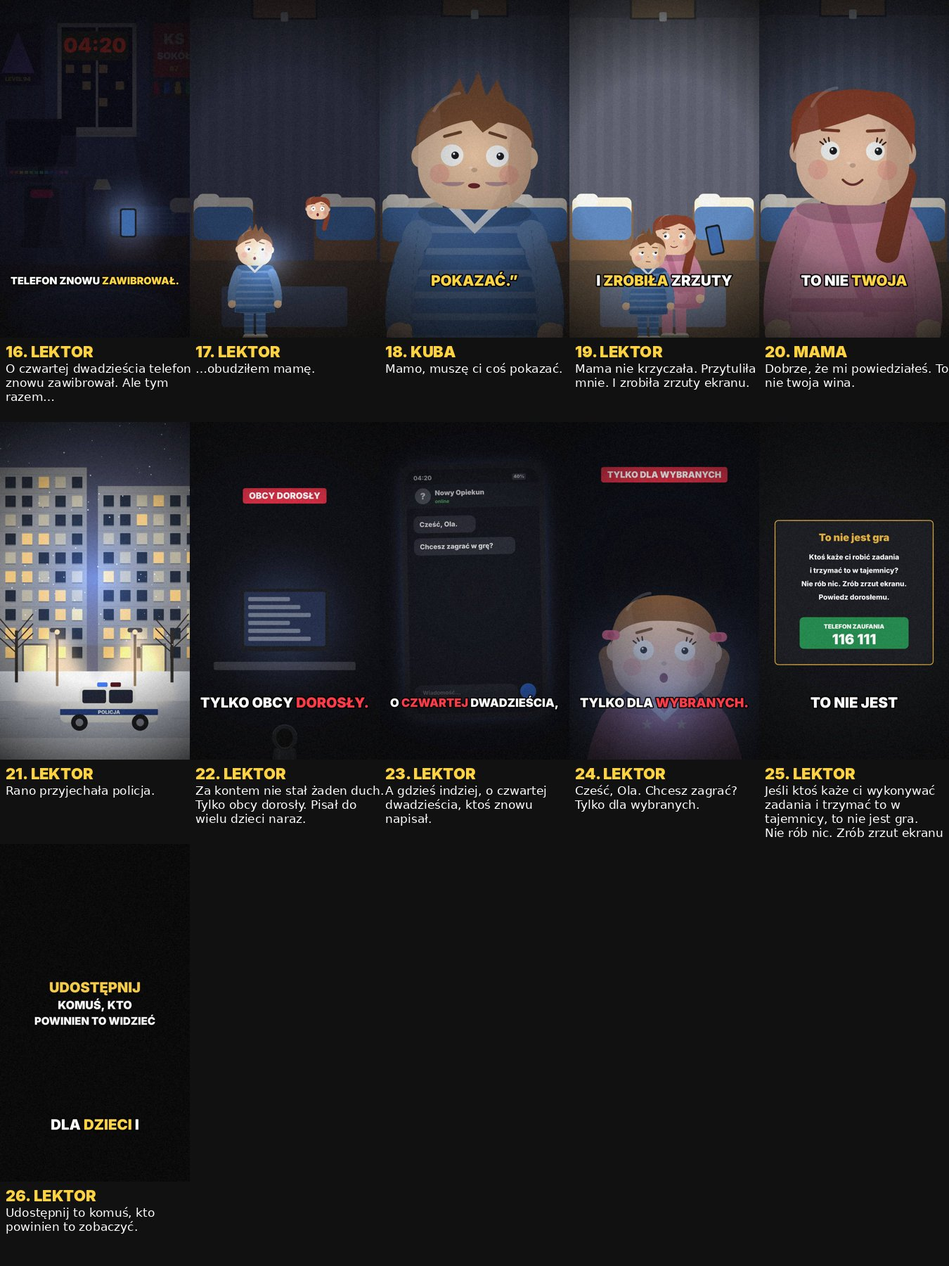
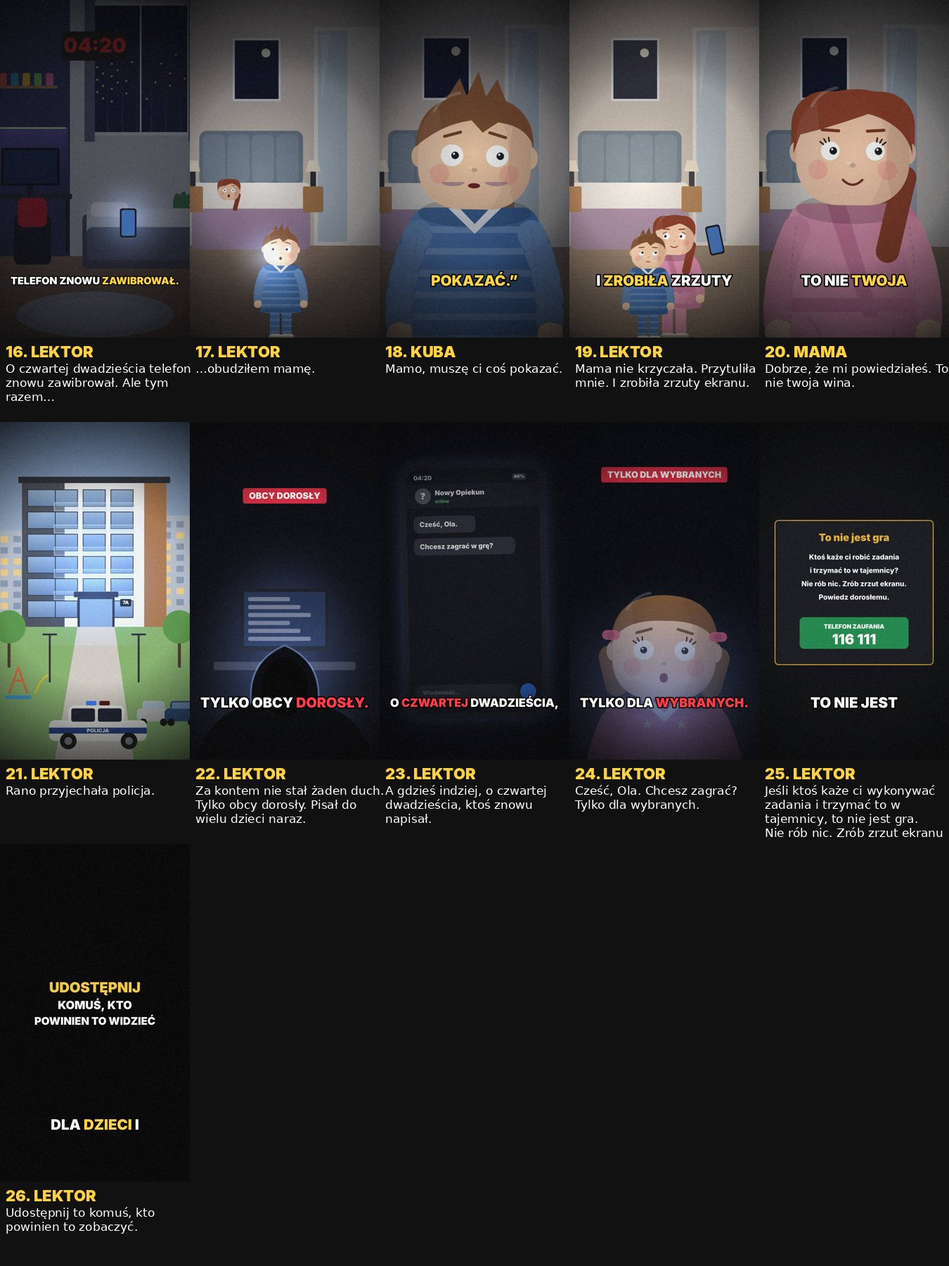
Gra: nowe osiedle i nowoczesne mieszkanie, poprawiony scenariusz obrazkowy
Claude-Session: https://claude.ai/code/session_01XA7BeL8A8WqQ6rWtpD99qW

Changed region(s): [[0.0, 0.0, 1.0, 0.28], [0.0, 0.3111, 0.3733, 0.6222], [0.1244, 0.0, 0.1556, 0.0311]]

diff --git a/film/leg21/scenes.js b/film/leg21/scenes.js
@@ -2106,6 +2106,59 @@ function telewizor(c, lt, o = {}) { pokojBartka(c, lt, { light: 0, candles: fals
 function fotoOsrodek(c, x, y, w, h, lt) { c.save(); c.translate(x, y); c.scale(w / 1080, h / 1920); c.translate(0, -300); osrodek(c, lt, { lit: 8 }); c.restore(); c.save(); c.translate(x, y); c.strokeStyle = '#FF2A35'; c.lineWidth = 5; const wx = (170 + 2 * 130 + 45) * w / 1080, wy = (980 + 170 + 55 - 300) * h / 1920; c.beginPath(); c.arc(wx, wy, 34 * w / 440, 0, 7); c.stroke(); c.fillStyle = 'rgba(255,255,255,.05)'; c.fillRect(0, 0, w, h); c.restore(); }
 // zdjęcie: dzieci śpią na piętrowych łóżkach, zrobione z wnętrza pokoju
 function fotoDorm(c, x, y, w, h, lt) { c.save(); c.translate(x, y); c.scale(w / 1080, h / 1920); pokojBartka(c, 0, { light: 0, candles: false, dark: .3 }); for (const [hx, hy, k] of [[160, 510, 'kuba'], [330, 790, 'sasiad'], [700, 1500, 'zosia']]) { c.save(); c.translate(hx, hy); c.scale(.32, .32); toonHead(c, { kind: k, expr: 'tired', t: 0 }, toonPal({ kind: k })); c.restore(); } const g = c.createRadialGradient(540, 900, 50, 540, 900, 900); g.addColorStop(0, 'rgba(255,255,255,.2)'); g.addColorStop(1, 'rgba(0,0,0,.6)'); c.fillStyle = g; c.fillRect(0, 0, 1080, 1920); c.restore(); }
+// ===================== GRA: nowe osiedle i mieszkanie =====================
+// nowy blok: biało-grafitowa elewacja, drewniane wstawki, szklane balkony, plac zabaw, parking; o.mark (indeks okna Kuby), o.day
+function nowyBlok(c, lt, o = {}) { const sky = c.createLinearGradient(0, 0, 0, 1100); sky.addColorStop(0, o.day ? '#6A8AB8' : '#0A1024'); sky.addColorStop(1, o.day ? '#C8D8E8' : '#2A3456'); c.fillStyle = sky; c.fillRect(0, 0, W, H); if (!o.day) for (let k = 0; k < 50; k++) circ(c, hash(k) * W, hash(k + 3) * 500, 1.5, 'rgba(255,255,255,.5)');
+  // dalsze bloki
+  for (const [bx, bw, bh, col] of [[-60, 300, 520, '#3A4260'], [820, 320, 600, '#343C58']]) { fillRR(c, bx, 1160 - bh, bw, bh, 0, o.day ? '#B8C0CC' : col); for (let r = 0; r < 8; r++) for (let q = 0; q < 4; q++) fillRR(c, bx + 24 + q * 70, 1160 - bh + 30 + r * 60, 40, 34, 2, hash(r * 9 + q + bx) > .55 ? '#F2D08A' : (o.day ? '#8A9AB0' : '#1A2036')); }
+  // główny budynek
+  const X = 150, Y = 380, BW = 780, BH = 780; fillRR(c, X, Y, BW, BH, 0, o.day ? '#F2F2F0' : '#D8DCE2'); fillRR(c, X, Y, 230, BH, 0, o.day ? '#4A4E56' : '#3A3E48'); fillRR(c, X + BW - 120, Y, 120, BH, 0, '#B07A4A'); c.fillStyle = 'rgba(0,0,0,.06)'; for (let k = 0; k < 30; k++) c.fillRect(X + BW - 120 + k * 4, Y, 1, BH);
+  fillRR(c, X - 20, Y - 30, BW + 40, 34, 4, '#2A2E36');
+  let n = 0; for (let r = 0; r < 6; r++) for (let q = 0; q < 4; q++) { const wx = X + 30 + q * 150, wy = Y + 40 + r * 120; const lit = o.mark === n || (!o.day && hash(n * 3 + 7) > .5); const g = c.createLinearGradient(wx, wy, wx, wy + 90); g.addColorStop(0, lit ? '#FFE2A0' : (o.day ? '#9AB8D8' : '#1A2238')); g.addColorStop(1, lit ? '#F2B860' : (o.day ? '#6A88B0' : '#121A2C')); fillRR(c, wx, wy, q === 0 ? 150 : 120, 90, 2, g); c.strokeStyle = '#2A2E36'; c.lineWidth = 4; c.strokeRect(wx, wy, q === 0 ? 150 : 120, 90); if (q > 0 && r < 5) { c.fillStyle = 'rgba(180,210,230,.35)'; c.fillRect(wx - 6, wy + 70, 132, 44); c.strokeStyle = 'rgba(220,235,245,.8)'; c.lineWidth = 3; c.strokeRect(wx - 6, wy + 70, 132, 44); } if (lit && o.mark === n) { c.save(); c.globalCompositeOperation = 'lighter'; c.filter = 'blur(18px)'; c.fillStyle = 'rgba(255,210,130,.5)'; c.fillRect(wx - 20, wy - 20, 160, 130); c.restore(); } n++; }
+  // wejście
+  fillRR(c, X + 300, Y + BH - 160, 200, 160, 4, '#2A2E36'); fillRR(c, X + 312, Y + BH - 150, 176, 150, 2, o.day ? '#8AA8C8' : '#F2D8A0'); fillRR(c, X + 280, Y + BH - 190, 240, 30, 4, '#2A2E36'); fillRR(c, X + 530, Y + BH - 150, 60, 40, 6, '#1E1E22'); txt(c, '7A', X + 560, Y + BH - 130, 26, '#FFFFFF', 900);
+  // teren: trawa, chodnik, drzewka, plac zabaw, parking
+  c.fillStyle = o.day ? '#8AB870' : '#22342A'; c.fillRect(0, 1160, W, 760); c.fillStyle = o.day ? '#D8D4CC' : '#4A4C52'; c.beginPath(); c.moveTo(X + 300, 1160); c.lineTo(X + 500, 1160); c.lineTo(760, H); c.lineTo(320, H); c.fill();
+  for (const tx of [80, 1000]) { fillRR(c, tx - 8, 1180, 16, 200, 4, '#4A3A2A'); c.fillStyle = o.day ? '#5A9A4A' : '#1A3A26'; c.beginPath(); c.arc(tx, 1160, 90, 0, 7); c.fill(); }
+  c.strokeStyle = '#E86A3A'; c.lineWidth = 10; c.beginPath(); c.moveTo(80, 1520); c.lineTo(130, 1380); c.lineTo(180, 1520); c.moveTo(105, 1450); c.lineTo(155, 1450); c.stroke(); fillRR(c, 60, 1530, 140, 20, 6, '#3AA0D8'); c.strokeStyle = '#F2C21A'; c.lineWidth = 8; c.beginPath(); c.moveTo(220, 1520); c.quadraticCurveTo(260, 1420, 300, 1420); c.stroke();
+  for (const [cx, col] of [[860, '#C8C8CC'], [1010, '#2A4A7A']]) { fillRR(c, cx - 90, 1600, 180, 70, 24, col); fillRR(c, cx - 60, 1560, 120, 50, 18, col); c.fillStyle = 'rgba(160,200,230,.6)'; c.fillRect(cx - 50, 1568, 100, 34); circ(c, cx - 55, 1675, 20, '#111'); circ(c, cx + 55, 1675, 20, '#111'); }
+  for (const lx of [300, 780]) { fillRR(c, lx - 5, 1200, 10, 260, 3, '#2A2A30'); fillRR(c, lx - 40, 1196, 80, 10, 4, '#2A2A30'); if (!o.day) { c.save(); c.globalCompositeOperation = 'lighter'; const lg = c.createRadialGradient(lx, 1210, 4, lx, 1400, 260); lg.addColorStop(0, 'rgba(255,240,200,.4)'); lg.addColorStop(1, 'rgba(0,0,0,0)'); c.fillStyle = lg; c.fillRect(lx - 260, 1200, 520, 400); c.restore(); } }
+  if (!o.day) NIGHT(c, o.dark ?? .3, 540, 900, 760); }
+// zdjęcie nowego bloku z zaznaczonym oknem
+function fotoNowyBlok(c, x, y, w, h, lt) { c.save(); c.translate(x, y); c.scale(w / 1080, h / 1920); c.translate(0, -150); nowyBlok(c, lt, { mark: 9, dark: .45 }); c.restore(); c.save(); c.translate(x, y); const wx = (150 + 30 + 1 * 150 + 60) * w / 1080, wy = (380 + 40 + 2 * 120 + 45 - 150) * h / 1920; c.strokeStyle = '#FF2A35'; c.lineWidth = 5; c.beginPath(); c.arc(wx, wy, 26 * w / 440 + 10, 0, 7); c.stroke(); c.restore(); }
+// nowoczesny pokój Kuby: szare ściany + granatowa ściana, LED, biurko z monitorem, fotel, łóżko, okno na miasto
+function pokojNowy(c, lt, o = {}) { c.fillStyle = '#C8CCD2'; c.fillRect(0, 0, W, 1380); fillRR(c, 0, 0, 420, 1380, 0, '#2A3456'); c.fillStyle = '#8A7058'; c.fillRect(0, 1380, W, 540); for (let k = 0; k < 9; k++) { c.fillStyle = 'rgba(0,0,0,.08)'; c.fillRect(0, 1380 + k * 60, W, 3); }
+  // okno z widokiem na miasto
+  fillRR(c, 520, 160, 480, 640, 6, '#E8ECF0'); c.save(); c.beginPath(); c.rect(536, 176, 448, 608); c.clip(); const sk = c.createLinearGradient(0, 176, 0, 784); sk.addColorStop(0, '#0A1024'); sk.addColorStop(1, '#2A3456'); c.fillStyle = sk; c.fillRect(536, 176, 448, 608); for (let k = 0; k < 7; k++) { const bx = 536 + k * 70, bh = 180 + hash(k + 2) * 260; fillRR(c, bx, 784 - bh, 60, bh, 0, '#1A2036'); for (let r = 0; r < 8; r++) circ(c, bx + 15 + (r % 2) * 28, 800 - bh + r * 30, 5, hash(k * 7 + r) > .5 ? '#F2D08A' : '#2A3050'); } c.restore(); fillRR(c, 756, 176, 8, 608, 2, '#E8ECF0'); for (const sx of [0, 1]) { c.fillStyle = '#5A6478'; c.fillRect(490 + sx * 500, 130, 50, 700); }
+  // LED nad biurkiem
+  const led = `hsl(${(lt * 30) % 360}, 80%, 60%)`; fillRR(c, 40, 760, 360, 8, 4, led); c.save(); c.globalCompositeOperation = 'lighter'; const lg = c.createLinearGradient(0, 760, 0, 1100); lg.addColorStop(0, 'rgba(160,90,255,.35)'); lg.addColorStop(1, 'rgba(0,0,0,0)'); c.fillStyle = lg; c.fillRect(30, 760, 380, 340); c.restore();
+  // biurko, monitor, fotel
+  fillRR(c, 30, 1080, 400, 26, 6, '#2A2A30'); for (const lx of [50, 400]) fillRR(c, lx, 1100, 14, 260, 4, '#1A1A1E'); fillRR(c, 90, 860, 280, 180, 10, '#0E0E12'); fillRR(c, 100, 870, 260, 160, 6, o.screen || '#1A2A4A'); fillRR(c, 215, 1040, 30, 40, 4, '#1A1A1E'); fillRR(c, 150, 1180, 180, 240, 30, '#1A1A1E'); fillRR(c, 170, 1100, 140, 140, 30, '#C81E28');
+  // półka z figurkami, roślina
+  fillRR(c, 60, 560, 300, 14, 4, '#B07A4A'); for (let k = 0; k < 5; k++) fillRR(c, 80 + k * 56, 500, 36, 60, 8, ['#E86A3A', '#3AA0D8', '#F2C21A', '#7AC85A', '#E06A9A'][k]);
+  fillRR(c, 930, 1240, 90, 120, 14, '#E8E4DC'); c.fillStyle = '#3A7A4A'; for (let k = 0; k < 7; k++) { c.beginPath(); c.ellipse(975 + Math.cos(k) * 40, 1180 - k * 14, 20, 60, k * .4 - 1.2, 0, 7); c.fill(); }
+  // łóżko
+  fillRR(c, 480, 1180, 560, 260, 20, '#4A4E58'); fillRR(c, 500, 1150, 520, 160, 30, '#D8DCE2'); fillRR(c, 520, 1120, 180, 70, 26, '#FFFFFF'); fillRR(c, 500, 1240, 520, 160, 30, '#5A6478');
+  // dywan okrągły
+  ell(c, 540, 1660, 380, 110, '#A8B0BC'); ell(c, 540, 1660, 300, 80, '#B8C0CC');
+  NIGHT(c, o.dark ?? .2, o.lx ?? 700, o.ly ?? 900, 800); }
+// otwarta kuchnia z wyspą
+function kuchniaNowa(c, lt, o = {}) { c.fillStyle = '#ECEAE6'; c.fillRect(0, 0, W, 1380); c.fillStyle = '#B8A890'; c.fillRect(0, 1380, W, 540); for (let k = 0; k < 8; k++) { c.fillStyle = 'rgba(0,0,0,.06)'; c.fillRect(k * 140, 1380, 3, 540); }
+  fillRR(c, 0, 300, 600, 300, 0, '#FFFFFF'); for (let k = 0; k < 4; k++) { c.strokeStyle = 'rgba(0,0,0,.08)'; c.lineWidth = 3; c.strokeRect(k * 150, 300, 150, 300); fillRR(c, k * 150 + 60, 560, 30, 8, 3, '#2A2A30'); } fillRR(c, 0, 820, 600, 400, 0, '#FFFFFF'); fillRR(c, 0, 800, 620, 26, 4, '#3A3A40'); for (let k = 0; k < 4; k++) { c.strokeStyle = 'rgba(0,0,0,.08)'; c.strokeRect(k * 150, 830, 150, 380); } c.fillStyle = '#D8D4CC'; c.fillRect(0, 600, 600, 200); for (let x = 0; x < 600; x += 60) for (let y = 600; y < 800; y += 30) { c.strokeStyle = 'rgba(0,0,0,.05)'; c.strokeRect(x + ((y / 30) % 2) * 30, y, 60, 30); }
+  fillRR(c, 640, 260, 360, 520, 6, '#E8ECF0'); const sk = c.createLinearGradient(0, 276, 0, 760); sk.addColorStop(0, o.night ? '#0A1024' : '#9AC0E8'); sk.addColorStop(1, o.night ? '#2A3456' : '#DCE8F4'); c.fillStyle = sk; c.fillRect(656, 276, 328, 488); fillRR(c, 816, 276, 8, 488, 2, '#E8ECF0');
+  fillRR(c, 860, 820, 200, 560, 10, '#D8DCE0'); fillRR(c, 860, 1080, 200, 6, 2, '#B8BCC0'); fillRR(c, 1030, 900, 10, 120, 4, '#8A8E94');
+  fillRR(c, 200, 1220, 640, 220, 12, '#B07A4A'); fillRR(c, 180, 1200, 680, 30, 8, '#F2F0EC'); for (const sx of [300, 540, 760]) { fillRR(c, sx - 40, 1440, 80, 24, 8, '#2A2A30'); fillRR(c, sx - 6, 1460, 12, 160, 3, '#2A2A30'); }
+  for (const lx of [340, 540, 740]) { c.strokeStyle = '#2A2A30'; c.lineWidth = 3; c.beginPath(); c.moveTo(lx, 0); c.lineTo(lx, 900); c.stroke(); c.fillStyle = '#2A2A30'; c.beginPath(); c.moveTo(lx - 50, 960); c.lineTo(lx + 50, 960); c.lineTo(lx + 30, 900); c.lineTo(lx - 30, 900); c.fill(); c.save(); c.globalCompositeOperation = 'lighter'; const g = c.createRadialGradient(lx, 970, 4, lx, 1150, 260); g.addColorStop(0, 'rgba(255,220,160,.35)'); g.addColorStop(1, 'rgba(0,0,0,0)'); c.fillStyle = g; c.fillRect(lx - 260, 960, 520, 400); c.restore(); }
+  fillRR(c, 420, 1150, 120, 60, 10, '#3A7A4A'); circ(c, 640, 1170, 30, '#E8A020'); circ(c, 690, 1180, 26, '#C81E28');
+  if (o.night) { c.fillStyle = 'rgba(0,0,20,.3)'; c.fillRect(0, 0, W, H); } }
+// sypialnia mamy: łóżko z tapicerowanym zagłówkiem, lampki, szafa z lustrem; o.mamaInBed
+function sypialniaNowa(c, lt, o = {}) { c.fillStyle = '#D8D0C8'; c.fillRect(0, 0, W, 1380); fillRR(c, 0, 0, W, 1380, 0, 'rgba(140,110,90,.15)'); c.fillStyle = '#9A8068'; c.fillRect(0, 1380, W, 540); for (let k = 0; k < 9; k++) { c.fillStyle = 'rgba(0,0,0,.08)'; c.fillRect(0, 1380 + k * 60, W, 3); }
+  fillRR(c, 700, 200, 360, 1180, 6, '#E8E2DA'); fillRR(c, 720, 220, 160, 1140, 4, '#B8C8D4'); c.fillStyle = 'rgba(255,255,255,.3)'; c.beginPath(); c.moveTo(740, 240); c.lineTo(790, 240); c.lineTo(740, 600); c.fill();
+  fillRR(c, 80, 760, 560, 300, 40, '#6A7A8A'); for (let k = 0; k < 4; k++) fillRR(c, 100 + k * 132, 780, 120, 260, 30, '#7A8A9A'); fillRR(c, 40, 1040, 640, 360, 30, '#F2EEE8'); fillRR(c, 40, 1180, 640, 220, 30, '#A88AA8');
+  if (o.mamaInBed) { c.save(); c.translate(240, 1080); c.scale(.38, .38); toonHead(c, { kind: 'mama', expr: o.mamaExpr || 'tired', t: lt }, toonPal({ kind: 'mama' })); c.restore(); }
+  for (const nx of [-10, 640]) { fillRR(c, nx, 1060, 110, 140, 8, '#B07A4A'); fillRR(c, nx + 40, 980, 30, 80, 4, '#2A2A30'); c.fillStyle = '#F2E8D0'; c.beginPath(); c.moveTo(nx + 15, 980); c.lineTo(nx + 95, 980); c.lineTo(nx + 80, 920); c.lineTo(nx + 30, 920); c.fill(); }
+  fillRR(c, 260, 260, 260, 340, 4, '#E8ECF0'); c.fillStyle = '#0A1024'; c.fillRect(272, 272, 236, 316); circ(c, 440, 340, 24, '#EDE8D0');
+  NIGHT(c, o.dark ?? .4, 400, 1000, 760); }
 // ===================== GRA: sceny =====================
 const TSK = {'hak':{start:0,end:4.4},'nowy':{start:4.4,end:8.0},'zaproszenie':{start:8.0,end:11.8},'zasady':{start:11.8,end:16.4},'z1':{start:16.4,end:19.8},'z2':{start:19.8,end:23.4},'z3':{start:23.4,end:27.2},'z4':{start:27.2,end:30.6},'zmeczony':{start:30.6,end:34.2},'mama':{start:34.2,end:37.2},'nic':{start:37.2,end:39.6},'dziala':{start:39.6,end:43.8},'dosc':{start:43.8,end:46.8},'grozba':{start:46.8,end:50.8},'strach':{start:50.8,end:54.0},'t420':{start:54.0,end:57.6},'budzi':{start:57.6,end:60.8},'pokaz':{start:60.8,end:63.8},'przytula':{start:63.8,end:67.8},'mama2':{start:67.8,end:71.6},'policja':{start:71.6,end:75.0},'prawda':{start:75.0,end:79.6},'ola':{start:79.6,end:83.4},'ola2':{start:83.4,end:86.6},'epilog':{start:86.6,end:93.2},'end':{start:93.2,end:98.2}};
 let _lt = 0; const SC = (name, o) => { const d = o.draw; if (d) o.draw = (c, lt) => { _lt = lt; d(c, lt); }; return scene(Object.assign({ name }, TSK[name], o)); };
@@ -2113,7 +2166,7 @@ let _lt = 0; const SC = (name, o) => { const d = o.draw; if (d) o.draw = (c, lt)
 const KUBA = { kind: 'kuba', home: true }, KUBAS = { kind: 'kuba', home: false }, MAMA = { kind: 'mama' };
 const OP = { name: 'Opiekun', unknown: true, sub: 'online' };
 const glowAt = (c, x, y, r, col = '150,190,255', a = .5) => { c.save(); c.globalCompositeOperation = 'lighter'; const g = c.createRadialGradient(x, y, 4, x, y, r); g.addColorStop(0, `rgba(${col},${a})`); g.addColorStop(1, 'rgba(0,0,0,0)'); c.fillStyle = g; c.fillRect(x - r, y - r, 2 * r, 2 * r); c.restore(); };
-const ROOMD = (dark = .8) => (c, lt) => { kubaRoom2(c, lt, {}); c.fillStyle = `rgba(0,0,10,${dark})`; c.fillRect(0, 0, W, H); };
+const ROOMD = (dark = .8) => (c, lt) => { pokojNowy(c, lt, { dark: .15 }); c.fillStyle = `rgba(0,0,10,${dark})`; c.fillRect(0, 0, W, H); };
 const clock420 = (c, lt) => { fillRR(c, 380, 300, 320, 140, 20, '#0A0A0C'); txt(c, '04:20', 540, 372, 96, Math.sin(lt * 4) > -.6 ? '#FF3B30' : '#5A1010', 900); };
 function listaZnajomych(c, lt, p) { c.fillStyle = '#05060A'; c.fillRect(0, 0, W, H); c.save(); c.translate(540, 960); fillRR(c, -360, -640, 720, 1280, 80, '#1A1C22'); fillRR(c, -334, -614, 668, 1228, 60, '#0F1117'); txt(c, 'Znajomi', -250, -520, 40, '#FFFFFF', 900, 'left'); const names = ['Bartek', 'Zosia', 'Kacper', 'Ola', 'Michał', 'Lena', 'Babcia', 'Tata']; names.forEach((nm, i) => { const y = -420 + i * 120; const gone = i < Math.floor(p * names.length); c.save(); c.globalAlpha = gone ? .25 : 1; circ(c, -250, y, 40, ['#E06A9A', '#3A8A4A', '#2A6AB0', '#E8A020'][i % 4]); txt(c, nm[0], -250, y + 2, 36, '#FFF', 900); txt(c, nm, -180, y, 36, '#FFFFFF', 800, 'left'); fillRR(c, 150, y - 30, 140, 60, 20, gone ? '#3A3E48' : '#FF3B30'); txt(c, gone ? 'usunięto' : 'usuń', 220, y, 26, '#FFFFFF', 900); if (gone) { c.strokeStyle = '#FF3B30'; c.lineWidth = 6; c.beginPath(); c.moveTo(-190, y); c.lineTo(120, y); c.stroke(); } c.restore(); }); c.restore(); NIGHT(c, .4, 540, 960, 760); }
 function kubaZmeczony(c, lt, o = {}) { toonClose(c, lt, 'kuba', o.expr || 'tired', Object.assign({}, o.s ? KUBAS : KUBA, { talk: o.talk, look: o.look ?? 0, bg: o.bg || '#1A1E2A', scene: o.scene, n: o.n ?? .5 })); if (o.bags !== false) { for (const sx of [-1, 1]) { c.save(); c.globalAlpha = .45; c.fillStyle = '#5A3A6A'; c.beginPath(); c.ellipse(540 + sx * 115, 1035, 60, 22, 0, 0, Math.PI); c.fill(); c.restore(); } } }
@@ -2122,24 +2175,24 @@ SC('hak', { cam: (lt) => ({ z: 1.04 + lt * .03 }), draw(c, lt) { czat(c, lt, [{ 
 SC('nowy', { cam: P(1.06, 3.6), draw(c, lt) { classroom(c, lt, {}); c.fillStyle = 'rgba(0,0,20,.25)'; c.fillRect(0, 0, W, H); }, post(c, lt) { band(c, lt, 'NOWY W SZKOLE', .4, 420, '#2A6AB0'); } });
 SC('zaproszenie', { cam: (lt) => ({ z: 1.04 + lt * .03 }), draw(c, lt) { czat(c, lt, [{ w: 'm', t: 'Hej, Kuba.', at: .3 }, { w: 'm', t: 'Chcesz zagrać w grę?', at: 1.0 }, { w: 'm', t: 'Tylko dla wybranych.', at: 2.0 }], Object.assign({ time: '22:14', battery: 64 }, OP)); } });
 SC('zasady', { cam: (lt) => ({ z: 1.06 + lt * .03 }), draw(c, lt) { czat(c, lt, [{ w: 'm', t: 'Zasada 1:', at: -1 }, { w: 'm', t: 'zadania codziennie o 4:20', at: .3 }, { w: 'm', t: 'Zasada 2: wyślij dowód', at: 1.3 }, { w: 'm', t: 'Zasada 3: NIKOMU ANI SŁOWA', at: 2.6 }], Object.assign({ time: '22:16', battery: 63 }, OP)); }, post(c, lt) { if (lt > 2.8) target(c, lt, 540, 300, 500, 100, 'TAJEMNICA', 2.8); } });
-SC('z1', { cam: (lt) => ({ z: 1.04 + lt * .04 }), draw(c, lt) { ROOMD(.82)(c, lt); toon(c, 560, 1900, .7, Object.assign({ expr: 'tired', t: lt, look: 1 }, KUBA)); glowAt(c, 700, 1450, 300); clock420(c, lt); }, post(c, lt) { band(c, lt, 'ZADANIE 1: WSTAŃ', .4, 520, '#D7263D'); } });
+SC('z1', { cam: (lt) => ({ z: 1.04 + lt * .04 }), draw(c, lt) { ROOMD(.55)(c, lt); toon(c, 560, 1900, .7, Object.assign({ expr: 'tired', t: lt, look: 1 }, KUBA)); glowAt(c, 700, 1450, 300); clock420(c, lt); }, post(c, lt) { band(c, lt, 'ZADANIE 1: WSTAŃ', .4, 520, '#D7263D'); } });
 SC('z2', { cam: (lt) => ({ z: 1.08 + lt * .04 }), draw(c, lt) { c.fillStyle = '#05060A'; c.fillRect(0, 0, W, H); kubaZmeczony(c, lt, { expr: 'fear', bg: '#05060A', scene: (cc) => { cc.fillStyle = '#05060A'; cc.fillRect(0, 0, W, H); }, n: .75 }); glowAt(c, 540, 1500, 700, '140,170,255', .45); fillRR(c, 380, 1480, 320, 200, 20, '#14161B'); fillRR(c, 392, 1492, 296, 176, 12, Math.sin(lt * 20) > 0 ? '#1A1E2A' : '#2A1418'); }, post(c, lt) { band(c, lt, 'ZADANIE 2: STRASZNY FILM', .3, 300, '#D7263D'); } });
-SC('z3', { cam: P(1.06, 3.8), draw(c, lt) { kuchnia(c, lt, { night: false }); toon(c, 330, 1880, .62, Object.assign({ expr: 'smile', t: lt, look: 1, talk: true }, MAMA)); toon(c, 720, 1880, .55, Object.assign({ expr: 'tired', t: lt, look: 0 }, KUBA)); }, post(c, lt) { band(c, lt, 'ZADANIE 3: NIE ODZYWAJ SIĘ DO MAMY', .3, 300, '#D7263D'); } });
+SC('z3', { cam: P(1.06, 3.8), draw(c, lt) { kuchniaNowa(c, lt, { night: false }); toon(c, 330, 1880, .62, Object.assign({ expr: 'smile', t: lt, look: 1, talk: true }, MAMA)); toon(c, 720, 1880, .55, Object.assign({ expr: 'tired', t: lt, look: 0 }, KUBA)); }, post(c, lt) { band(c, lt, 'ZADANIE 3: NIE ODZYWAJ SIĘ DO MAMY', .3, 300, '#D7263D'); } });
 SC('z4', { cam: (lt) => ({ z: 1.04 + lt * .03 }), draw(c, lt) { listaZnajomych(c, lt, clamp((lt - .4) / 2.6)); }, post(c, lt) { band(c, lt, 'ZADANIE 4: USUŃ ZNAJOMYCH', .3, 220, '#D7263D'); } });
 SC('zmeczony', { cam: P(1.06, 3.6), draw(c, lt) { kubaZmeczony(c, lt, { s: true, bg: '#C8C0A8', scene: (cc, l) => classroom(cc, l, {}), n: .2 }); } });
-SC('mama', { cam: P(1.08, 3), draw(c, lt) { toonClose(c, lt, 'mama', 'fear', { kind: 'mama', talk: true, look: 1, bg: '#C8B88A', scene: (cc, l) => kuchnia(cc, l, { night: true }), n: .25 }); } });
-SC('nic', { cam: (lt) => ({ z: 1.1 + lt * .04 }), draw(c, lt) { kubaZmeczony(c, lt, { talk: true, look: -1, bg: '#C8B88A', scene: (cc, l) => kuchnia(cc, l, { night: true }), n: .3 }); } });
+SC('mama', { cam: P(1.08, 3), draw(c, lt) { toonClose(c, lt, 'mama', 'fear', { kind: 'mama', talk: true, look: 1, bg: '#C8B88A', scene: (cc, l) => kuchniaNowa(cc, l, { night: true }), n: .25 }); } });
+SC('nic', { cam: (lt) => ({ z: 1.1 + lt * .04 }), draw(c, lt) { kubaZmeczony(c, lt, { talk: true, look: -1, bg: '#C8B88A', scene: (cc, l) => kuchniaNowa(cc, l, { night: true }), n: .3 }); } });
 SC('dziala', { cam: (lt) => ({ z: 1.04 + lt * .04 }), draw(c, lt) { c.fillStyle = '#08090E'; c.fillRect(0, 0, W, H); const k = clamp(lt / 3.4); [[200, 'sasiad', '#C83A2A'], [380, 'zosia', '#E06A9A'], [700, 'mama', null], [880, 'sasiad', '#3A8A4A']].forEach(([x, kd, cl], i) => { c.save(); c.globalAlpha = clamp(1 - k * 1.3 + i * .05); toon(c, x, 1800, .45, { kind: kd, expr: 'neutral', t: lt, look: 0, cloth: cl || undefined }); c.restore(); }); toon(c, 540, 1820, .6, Object.assign({ expr: 'tired', t: lt, look: 0 }, KUBAS)); glowAt(c, 540, 1400, 400, '120,140,200', .25); NIGHT(c, .5, 540, 1500, 500); } });
 SC('dosc', { cam: (lt) => ({ z: 1.06 + lt * .03 }), draw(c, lt) { czat(c, lt, [{ w: 'm', t: 'Zadanie 9.', at: -1 }, { w: 'k', t: 'Nie chcę już grać.', at: 1.6 }], Object.assign({ time: '04:21', battery: 9, draft: lt < 1.6 ? 'Nie chcę już grać.'.slice(0, Math.floor(lt * 12)) : null }, OP)); } });
-SC('grozba', { cam: (lt) => ({ z: 1.06 + lt * .04 }), draw(c, lt) { czat(c, lt, [{ w: 'k', t: 'Nie chcę już grać.', at: -1 }, { w: 'm', t: 'Z gry się nie wychodzi.', at: .3 }, { w: 'm', t: 'Wiem, gdzie mieszkasz.', at: 1.3 }, { w: 'm', p: fotoBlok, at: 2.3 }], Object.assign({ time: '04:22', battery: 8 }, OP)); }, post(c, lt) { joltFlash(c, lt, [2.3]); } });
-SC('strach', { cam: (lt) => ({ z: 1.04 + lt * .04 }), draw(c, lt) { ROOMD(.85)(c, lt); toon(c, 540, 1900, .75, Object.assign({ expr: 'fear', t: lt, look: 0, tears: true }, KUBA)); glowAt(c, 600, 1400, 300); } });
-SC('t420', { cam: (lt) => ({ z: 1.04 + lt * .05 }), draw(c, lt) { ROOMD(.85)(c, lt); clock420(c, lt); glowAt(c, 700, 1200, 260); fillRR(c, 660, 1150, 80, 140, 12, '#14161B'); fillRR(c, 668, 1158, 64, 124, 8, '#3A6AB0'); } });
-SC('budzi', { cam: P(1.06, 3.2), draw(c, lt) { sypialnia(c, lt, {}); c.fillStyle = 'rgba(0,0,10,.5)'; c.fillRect(0, 0, W, H); toon(c, 380, 1880, .62, Object.assign({ expr: 'fear', t: lt, look: 1 }, KUBA)); c.save(); c.translate(720, 1180); c.scale(.4, .4); toonHead(c, { kind: 'mama', expr: lt > 1.4 ? 'shock' : 'tired', t: lt }, toonPal(MAMA)); c.restore(); glowAt(c, 450, 1450, 260); } });
-SC('pokaz', { cam: P(1.08, 3), draw(c, lt) { kubaZmeczony(c, lt, { talk: true, look: 1, expr: 'fear', bg: '#3A4256', scene: (cc, l) => sypialnia(cc, l, {}), n: .45, bags: true }); } });
-SC('przytula', { cam: P(1.06, 4), draw(c, lt) { sypialnia(c, lt, {}); c.save(); c.globalCompositeOperation = 'lighter'; c.fillStyle = 'rgba(255,220,170,.12)'; c.fillRect(0, 0, W, H); c.restore(); toon(c, 600, 1880, .7, Object.assign({ expr: 'smile', t: lt, look: -1 }, MAMA)); toon(c, 460, 1890, .6, Object.assign({ expr: 'tired', t: lt, look: 1, tears: true }, KUBA)); c.save(); c.translate(820, 1350); c.rotate(-.2); fillRR(c, -40, -80, 80, 160, 14, '#14161B'); fillRR(c, -32, -70, 64, 140, 10, '#3A6AB0'); c.restore(); } });
-SC('mama2', { cam: P(1.08, 3.8), draw(c, lt) { toonClose(c, lt, 'mama', 'smile', { kind: 'mama', talk: true, look: 1, bg: '#3A4256', scene: (cc, l) => sypialnia(cc, l, {}), n: .3 }); } });
-SC('policja', { cam: P(1.06, 3.4), draw(c, lt) { blokPRL(c, lt, { dusk: true, car: false }); policeCar(c, lt, 620, 1660, .8); policeLights(c, lt, 0, 1080); } });
-SC('prawda', { cam: (lt) => ({ z: 1.04 + lt * .04 }), draw(c, lt) { c.fillStyle = '#06070C'; c.fillRect(0, 0, W, H); fillRR(c, 200, 1300, 680, 40, 8, '#2A2A30'); glowAt(c, 540, 1100, 500, '120,160,255', .35); fillRR(c, 330, 950, 420, 300, 14, '#14161B'); fillRR(c, 345, 965, 390, 260, 8, '#1E2A4A'); for (let k = 0; k < 6; k++) fillRR(c, 365, 990 + k * 38, 200 + (k % 3) * 50, 20, 6, 'rgba(255,255,255,.35)'); hooded(c, 540, 2150, 1.7, {}); glowAt(c, 540, 1300, 420, '120,160,255', .3); }, post(c, lt) { band(c, lt, 'OBCY DOROSŁY', 1.0, 420, '#D7263D'); } });
+SC('grozba', { cam: (lt) => ({ z: 1.06 + lt * .04 }), draw(c, lt) { czat(c, lt, [{ w: 'k', t: 'Nie chcę już grać.', at: -1 }, { w: 'm', t: 'Z gry się nie wychodzi.', at: .3 }, { w: 'm', t: 'Wiem, gdzie mieszkasz.', at: 1.3 }, { w: 'm', p: fotoNowyBlok, at: 2.3 }], Object.assign({ time: '04:22', battery: 8 }, OP)); }, post(c, lt) { joltFlash(c, lt, [2.3]); } });
+SC('strach', { cam: (lt) => ({ z: 1.04 + lt * .04 }), draw(c, lt) { ROOMD(.6)(c, lt); toon(c, 540, 1900, .75, Object.assign({ expr: 'fear', t: lt, look: 0, tears: true }, KUBA)); glowAt(c, 600, 1400, 300); } });
+SC('t420', { cam: (lt) => ({ z: 1.04 + lt * .05 }), draw(c, lt) { ROOMD(.6)(c, lt); clock420(c, lt); glowAt(c, 700, 1200, 260); fillRR(c, 660, 1150, 80, 140, 12, '#14161B'); fillRR(c, 668, 1158, 64, 124, 8, '#3A6AB0'); } });
+SC('budzi', { cam: P(1.06, 3.2), draw(c, lt) { sypialniaNowa(c, lt, { mamaInBed: true, mamaExpr: lt > 1.4 ? 'shock' : 'tired', dark: .55 }); toon(c, 520, 1880, .62, Object.assign({ expr: 'fear', t: lt, look: -1 }, KUBA)); glowAt(c, 450, 1450, 260); } });
+SC('pokaz', { cam: P(1.08, 3), draw(c, lt) { kubaZmeczony(c, lt, { talk: true, look: 1, expr: 'fear', bg: '#3A4256', scene: (cc, l) => sypialniaNowa(cc, l, {}), n: .45, bags: true }); } });
+SC('przytula', { cam: P(1.06, 4), draw(c, lt) { sypialniaNowa(c, lt, {}); c.save(); c.globalCompositeOperation = 'lighter'; c.fillStyle = 'rgba(255,220,170,.12)'; c.fillRect(0, 0, W, H); c.restore(); toon(c, 600, 1880, .7, Object.assign({ expr: 'smile', t: lt, look: -1 }, MAMA)); toon(c, 460, 1890, .6, Object.assign({ expr: 'tired', t: lt, look: 1, tears: true }, KUBA)); c.save(); c.translate(820, 1350); c.rotate(-.2); fillRR(c, -40, -80, 80, 160, 14, '#14161B'); fillRR(c, -32, -70, 64, 140, 10, '#3A6AB0'); c.restore(); } });
+SC('mama2', { cam: P(1.08, 3.8), draw(c, lt) { toonClose(c, lt, 'mama', 'smile', { kind: 'mama', talk: true, look: 1, bg: '#3A4256', scene: (cc, l) => sypialniaNowa(cc, l, {}), n: .3 }); } });
+SC('policja', { cam: P(1.06, 3.4), draw(c, lt) { nowyBlok(c, lt, { day: true }); policeCar(c, lt, 560, 1760, .8); policeLights(c, lt, 0, 1080); } });
+SC('prawda', { cam: (lt) => ({ z: 1.04 + lt * .04 }), draw(c, lt) { c.fillStyle = '#06070C'; c.fillRect(0, 0, W, H); fillRR(c, 200, 1300, 680, 40, 8, '#2A2A30'); glowAt(c, 540, 1100, 500, '120,160,255', .35); fillRR(c, 330, 950, 420, 300, 14, '#14161B'); fillRR(c, 345, 965, 390, 260, 8, '#1E2A4A'); for (let k = 0; k < 6; k++) fillRR(c, 365, 990 + k * 38, 200 + (k % 3) * 50, 20, 6, 'rgba(255,255,255,.35)'); glowAt(c, 540, 1500, 700, '120,160,255', .45); c.fillStyle = '#05060A'; c.beginPath(); c.moveTo(80, H); c.quadraticCurveTo(120, 1560, 380, 1500); c.quadraticCurveTo(360, 1300, 540, 1220); c.quadraticCurveTo(720, 1300, 700, 1500); c.quadraticCurveTo(960, 1560, 1000, H); c.fill(); c.fillStyle = '#000'; c.beginPath(); c.ellipse(540, 1420, 110, 140, 0, 0, 7); c.fill(); c.save(); c.globalCompositeOperation = 'lighter'; c.strokeStyle = 'rgba(140,180,255,.45)'; c.lineWidth = 8; c.beginPath(); c.moveTo(380, 1500); c.quadraticCurveTo(360, 1300, 540, 1222); c.quadraticCurveTo(720, 1300, 700, 1500); c.stroke(); c.restore(); }, post(c, lt) { band(c, lt, 'OBCY DOROSŁY', 1.0, 420, '#D7263D'); } });
 SC('ola', { cam: (lt) => ({ z: 1.04 + lt * .03 }), draw(c, lt) { czat(c, lt, [{ w: 'm', t: 'Cześć, Ola.', at: .5 }, { w: 'm', t: 'Chcesz zagrać w grę?', at: 1.6 }], { name: 'Nowy Opiekun', unknown: true, time: '04:20', battery: 40 }); } });
 SC('ola2', { cam: (lt) => ({ z: 1.1 + lt * .06 }), draw(c, lt) { c.fillStyle = '#04050A'; c.fillRect(0, 0, W, H); toonClose(c, lt, 'zosia', 'fear', { kind: 'zosia', cloth: '#E06A9A', look: 0, bg: '#04050A', scene: (cc) => { cc.fillStyle = '#04050A'; cc.fillRect(0, 0, W, H); }, n: .75 }); glowAt(c, 540, 1500, 700, '140,170,255', .5); }, post(c, lt) { band(c, lt, 'TYLKO DLA WYBRANYCH', 1.0, 300, '#D7263D'); } });
 SC('epilog', { draw(c, lt) { c.fillStyle = '#0B0C10'; c.fillRect(0, 0, W, H); const p = eout(clamp(lt / .5)); c.save(); c.globalAlpha = p; fillRR(c, 90, 560, 900, 820, 20, '#14161D'); c.strokeStyle = '#E8B13A'; c.lineWidth = 5; rr(c, 90, 560, 900, 820, 20); c.stroke(); txt(c, 'To nie jest gra', 540, 660, 58, '#E8B13A', 900); ['Ktoś każe ci robić zadania', 'i trzymać to w tajemnicy?', 'Nie rób nic. Zrób zrzut ekranu.', 'Powiedz dorosłemu.'].forEach((l, i) => txt(c, l, 540, 770 + i * 76, 40, '#FFFFFF', 800)); fillRR(c, 230, 1110, 620, 180, 24, '#1E8A4A'); txt(c, 'TELEFON ZAUFANIA', 540, 1165, 34, '#FFFFFF', 900); txt(c, '116 111', 540, 1240, 80, '#FFFFFF', 900); c.restore(); } });
